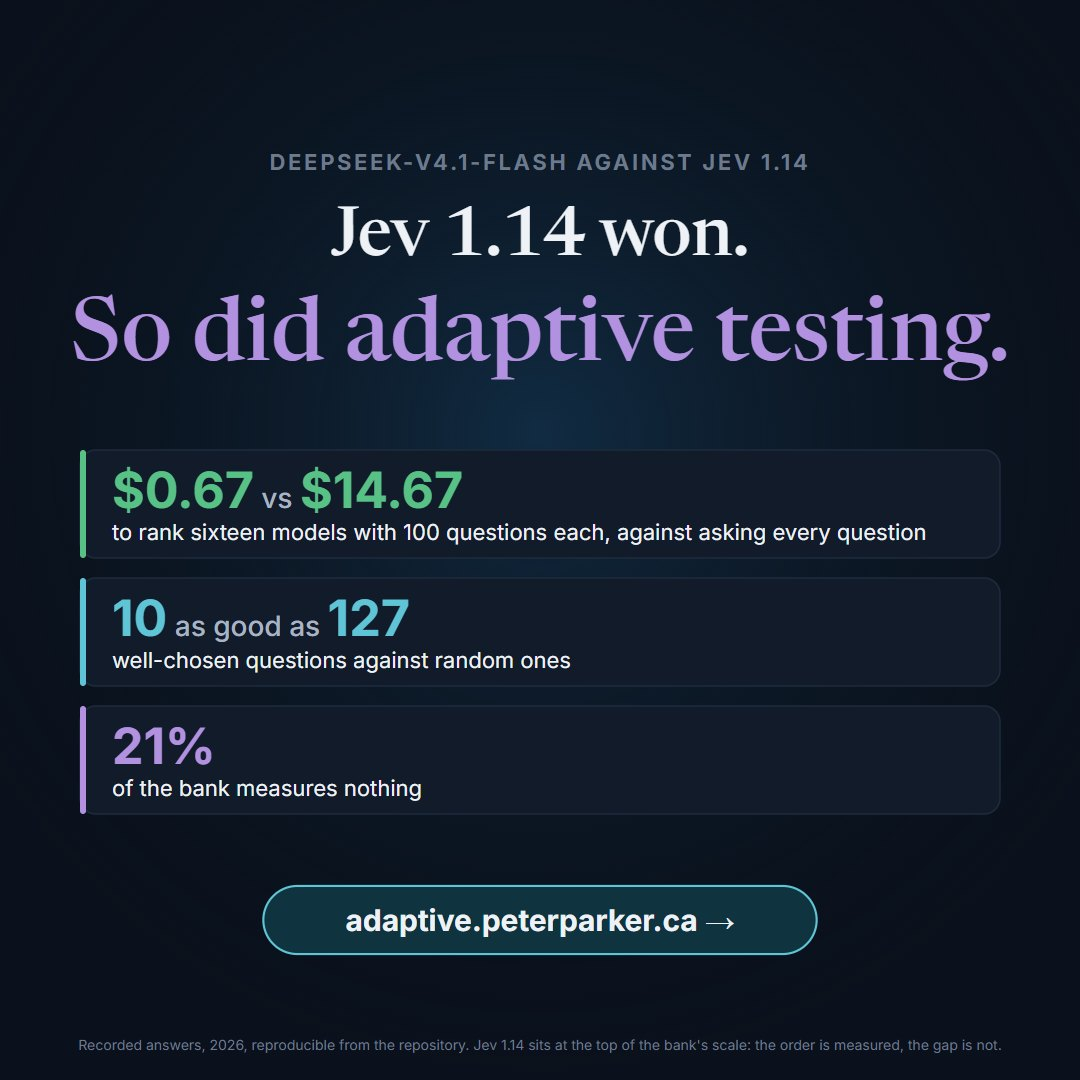
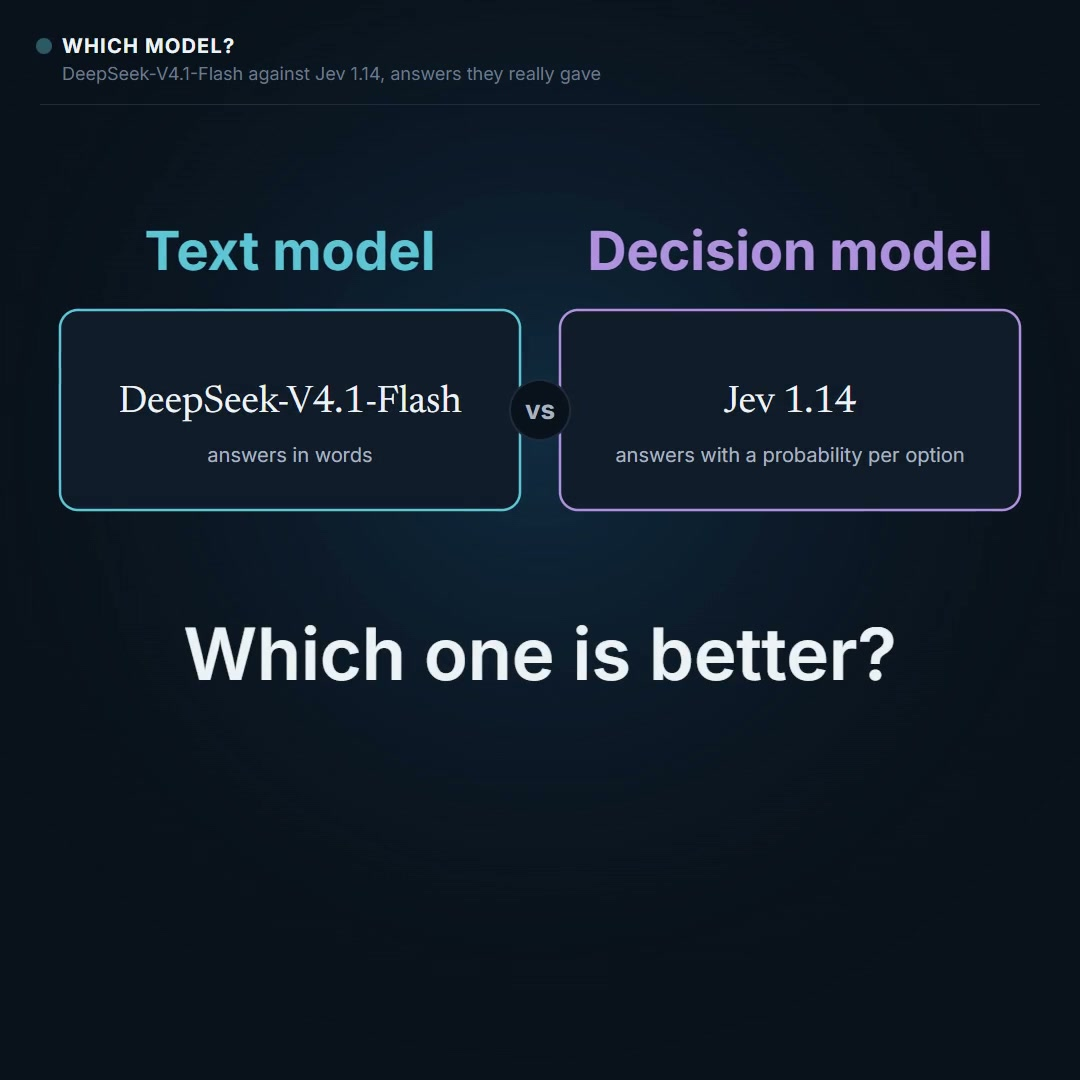
The film's opening screen on the page is its frame at two seconds, the two models and the question

diff --git a/demo/index.html b/demo/index.html
@@ -89,7 +89,7 @@
     <p class="section-lead">
       Thirty-seven seconds, with sound: DeepSeek V4.1 Flash, a text model, against Jev 1.14, a decision model, on the recorded answers this page replays. The adaptive test settles which is better while questions asked at random are still undecided, and every number in the film comes from those recorded answers.
     </p>
-    <video class="demo-video" controls playsinline preload="metadata" poster="video/film-poster.jpg" src="video/film.mp4">
+    <video class="demo-video" controls playsinline preload="metadata" poster="video/film-poster.jpg?v=2" src="video/film.mp4">
       Your browser cannot play this video. <a href="video/film.mp4">Download it</a> instead.
     </video>
     <p class="demo-video-note">Run the same race yourself, or any other pair, in the next section.</p>

diff --git a/video/render.py b/video/render.py
@@ -28,7 +28,7 @@ from pathlib import Path
 HERE = Path(__file__).resolve().parent
 FPS = 30
 SECONDS = 37.0  # film.html's END
-POSTER_AT = 32.4  # the result, with its three figures and the footer in
+POSTER_AT = 2.0  # the frame the page shows before the film is played
 # The names the film prints; the vendors' identifiers are longer than a card.
 NAMES = ["DeepSeek-V4.1-Flash", "Jev 1.14"]
 
